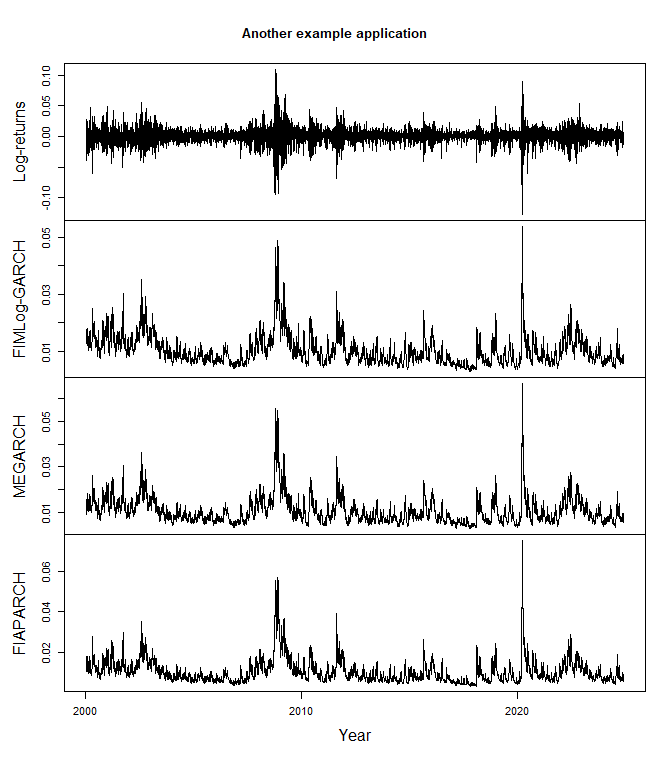
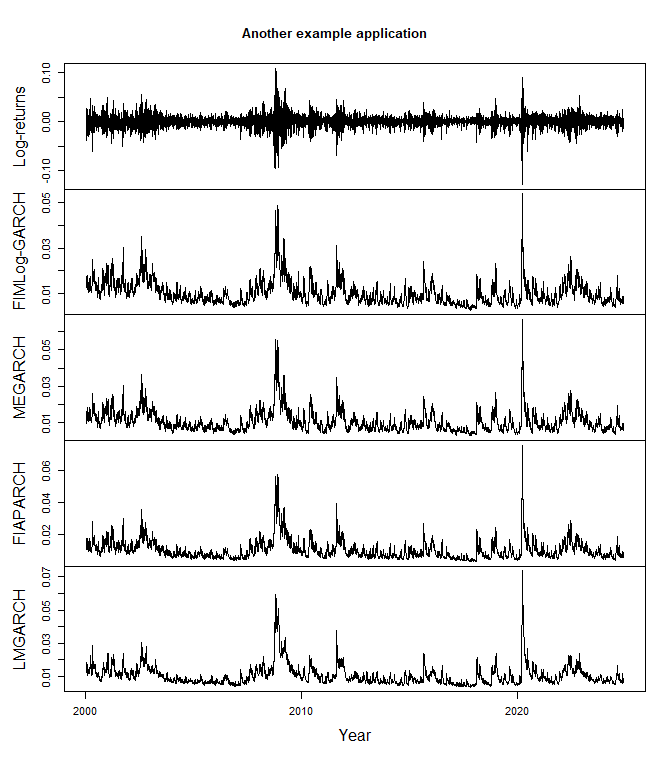
...

diff --git a/README.md b/README.md
@@ -92,12 +92,12 @@ model1
 #> Fitted parameters:
 #> 
 #>               par     se     tval   pval
-#> mu         0.0003 0.0001   3.1635 0.0016
-#> omega_sig -8.6599 0.1330 -65.1195 0.0000
-#> phi1       0.8679 0.0260  33.3196 0.0000
-#> kappa     -0.2363 0.0151 -15.6229 0.0000
-#> gamma      0.3194 0.0211  15.1117 0.0000
-#> d          0.2756 0.0470   5.8591 0.0000
+#> mu         0.0003 0.0001   3.1645 0.0016
+#> omega_sig -8.6599 0.1331 -65.0661 0.0000
+#> phi1       0.8679 0.0260  33.3308 0.0000
+#> kappa     -0.2363 0.0151 -15.6225 0.0000
+#> gamma      0.3194 0.0211  15.1101 0.0000
+#> d          0.2756 0.0470   5.8612 0.0000
 #>  
 #> Information criteria (parametric part):
 #> AIC: -6.4945, BIC: -6.4880
@@ -158,13 +158,13 @@ model10
 #> Fitted parameters:
 #> 
 #>               par     se     tval   pval
-#> mu         0.0004 0.0001   4.4262 0.0000
-#> omega_sig -9.3708 0.1135 -82.5968 0.0000
-#> phi1       0.9734 0.0034 287.1393 0.0000
-#> phi2       0.0026 0.0022   1.1692 0.2423
-#> kappa     -0.2962 0.0189 -15.6584 0.0000
-#> gamma      0.1661 0.0129  12.9173 0.0000
-#> df         7.0237 0.6101  11.5128 0.0000
+#> mu         0.0004 0.0001   4.5018 0.0000
+#> omega_sig -9.3708 0.1132 -82.7777 0.0000
+#> phi1       0.9734 0.0560  17.3865 0.0000
+#> phi2       0.0026 0.0551   0.0466 0.9628
+#> kappa     -0.2962 0.0239 -12.4089 0.0000
+#> gamma      0.1661 0.0143  11.6164 0.0000
+#> df         7.0237 0.5987  11.7317 0.0000
 #>  
 #> Information criteria (parametric part):
 #> AIC: -6.5387, BIC: -6.5311
@@ -208,13 +208,13 @@ model11
 #> Fitted parameters:
 #> 
 #>               par     se      tval   pval
-#> mu         0.0003 0.0001    2.9112 0.0036
-#> ar1        0.2348 0.2513    0.9345 0.3500
-#> ma1       -0.2849 0.2481   -1.1485 0.2507
-#> omega_sig -9.1309 0.0754 -121.1277 0.0000
-#> phi1       0.9719 0.0027  353.4953 0.0000
-#> kappa     -0.1339 0.0082  -16.4162 0.0000
-#> gamma      0.1617 0.0125   12.9201 0.0000
+#> mu         0.0003 0.0001    2.9105 0.0036
+#> ar1        0.2348 0.2474    0.9492 0.3425
+#> ma1       -0.2849 0.2442   -1.1665 0.2434
+#> omega_sig -9.1309 0.0754 -121.1206 0.0000
+#> phi1       0.9719 0.0027  353.4714 0.0000
+#> kappa     -0.1339 0.0082  -16.4203 0.0000
+#> gamma      0.1617 0.0125   12.9198 0.0000
 #>  
 #> Information criteria (parametric part):
 #> AIC: -6.4969, BIC: -6.4894
@@ -251,12 +251,12 @@ model12
 #> Fitted parameters:
 #> 
 #>               par     se     tval   pval
-#> omega_sig -0.5382 0.1813  -2.9693 0.0030
-#> phi1       0.7907 0.0701  11.2798 0.0000
-#> kappa     -0.1519 0.0126 -12.0241 0.0000
-#> gamma      0.1236 0.0121  10.2399 0.0000
-#> d          0.3963 0.0846   4.6859 0.0000
-#> df         7.5374 0.6688  11.2694 0.0000
+#> omega_sig -0.5382 0.1813  -2.9682 0.0030
+#> phi1       0.7907 0.0701  11.2767 0.0000
+#> kappa     -0.1519 0.0126 -12.0232 0.0000
+#> gamma      0.1236 0.0121  10.2392 0.0000
+#> d          0.3963 0.0846   4.6846 0.0000
+#> df         7.5374 0.6688  11.2695 0.0000
 #>  
 #> Information criteria (parametric part):
 #> AIC: 2.4655, BIC: 2.4719
@@ -335,6 +335,7 @@ directly.
 
 ``` r
 model_fiaparch <- fiaparch(rt, orders = c(1, 1), cond_dist = "std")
+model_lmgarch <- lmgarch(rt, orders = c(1, 1), cond_dist = "std")
 model_fiaparch
 #> *************************************
 #> *       Fitted FIAPARCH Model       *
@@ -353,14 +354,14 @@ model_fiaparch
 #> Fitted parameters:
 #> 
 #>          par     se     tval   pval
-#> mu    0.0004 0.0001   4.7177 0.0000
-#> omega 0.0002 0.0001   1.5252 0.1272
-#> phi1  0.1796 0.0310   5.7853 0.0000
-#> beta1 0.4954 0.0493  10.0576 0.0000
+#> mu    0.0004 0.0001   4.7238 0.0000
+#> omega 0.0002 0.0001   2.1185 0.0341
+#> phi1  0.1796 0.0310   5.7862 0.0000
+#> beta1 0.4954 0.0493  10.0543 0.0000
 #> gamma 0.9999 0.0098 101.5153 0.0000
-#> delta 1.2435 0.0453  27.4551 0.0000
-#> d     0.3961 0.0338  11.7162 0.0000
-#> df    7.8301 0.7162  10.9322 0.0000
+#> delta 1.2435 0.0453  27.4507 0.0000
+#> d     0.3961 0.0338  11.7136 0.0000
+#> df    7.8301 0.7161  10.9340 0.0000
 #>  
 #> Information criteria (parametric part):
 #> AIC: -6.5484, BIC: -6.5398
@@ -368,11 +369,13 @@ model_fiaparch
 
 ``` r
 sigt_fiaparch <- sigt(model_fiaparch)
+sigt_lmgarch <- sigt(model_lmgarch)
 TS2 <- cbind(
   "Log-returns" = rt,
   "FIMLog-GARCH" = sigt1,
   "MEGARCH" = sigt10,
-  "FIAPARCH" = sigt_fiaparch
+  "FIAPARCH" = sigt_fiaparch,
+  "LMGARCH" = sigt_lmgarch
 )
 
 plot(TS2, xlab = "Year", main = "Another example application", nc = 1)
